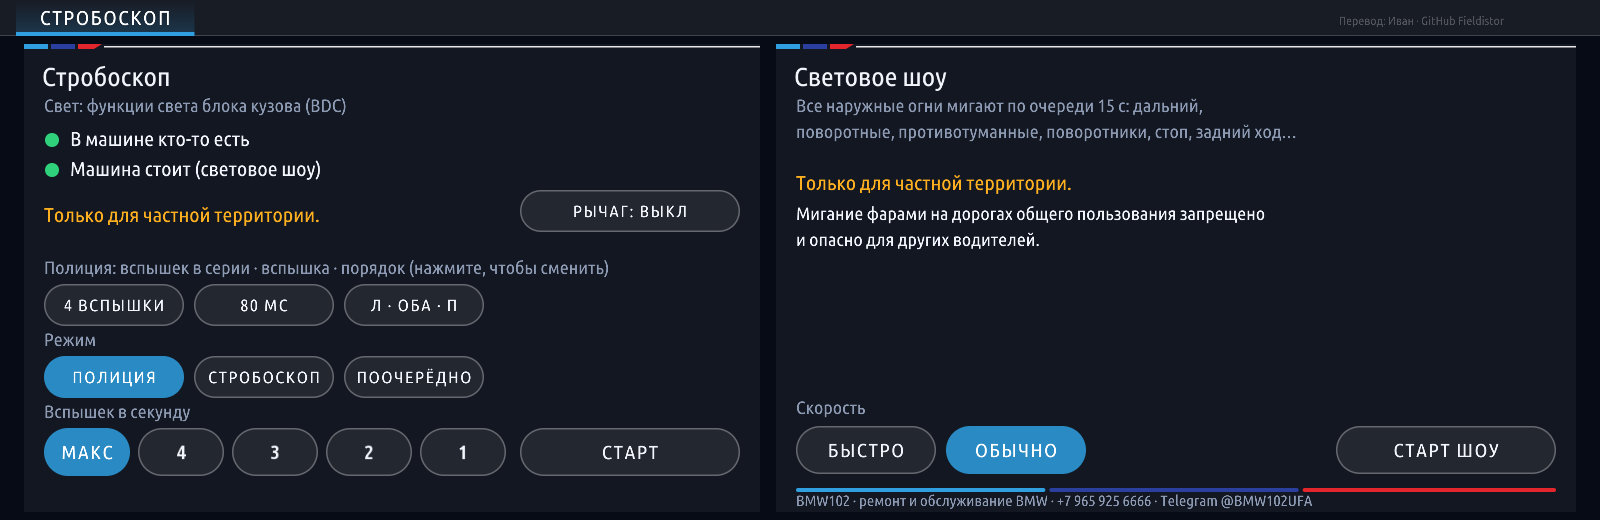
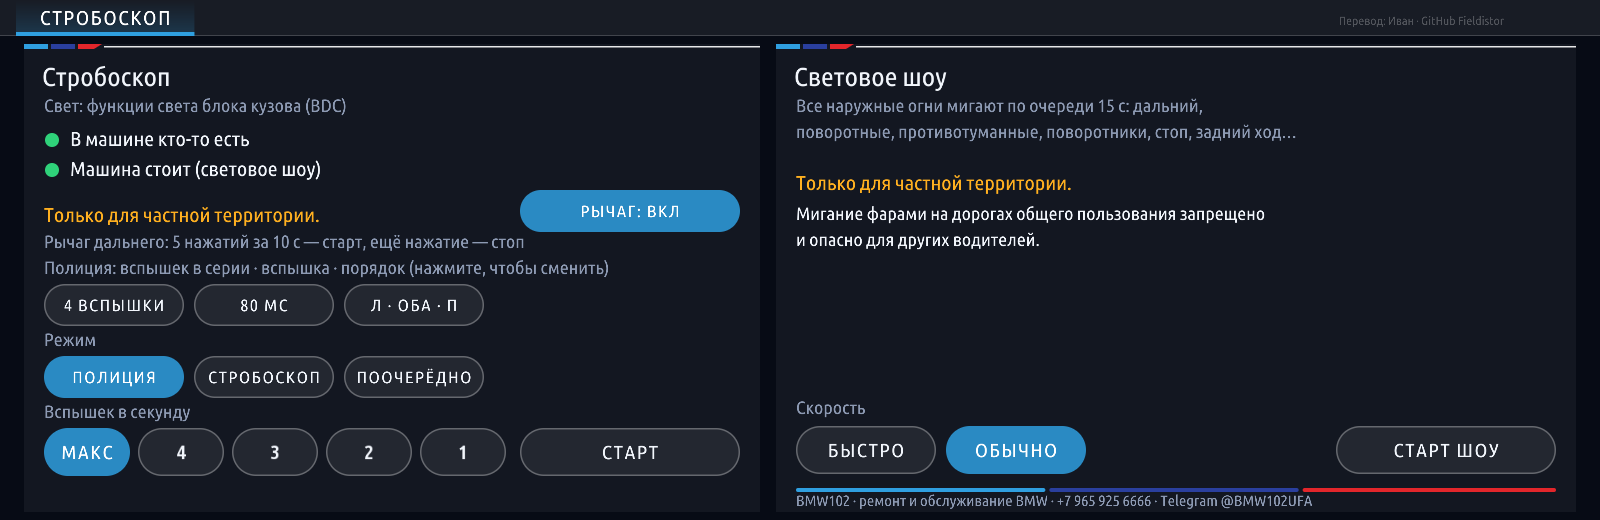
Рычаг дальнего: 5 нажатий за 10 с — старт стробоскопа, следующее — стоп
bmw102_flash 0.3.0 и bmw102_strobe 0.2.0: общий lever.js (импульс ≤1,5 с, удержание
сбрасывает счёт, пауза 2 с после старта/стопа). Strobe получил кнопку «Рычаг»
и автостарт с МГУ, чтобы рычаг работал с закрытой плиткой.

Claude-Session: https://claude.ai/code/session_01NB4Cp9im5w7Su1bm5gUy2F

Changed region(s): [[0.0312, 0.3385, 0.4688, 0.4923]]

diff --git a/strobe/app/src/app.js b/strobe/app/src/app.js
@@ -11,6 +11,8 @@
  * перегреве фар (FLM01 ≥ 90 °C), фары возвращаются машине при остановке или падении приложения.
  * От BMW102 (для safety car на треке): стробоскоп работает и на ходу, но на LED-фарах на ходу — только дальний
  * (ближний не гаснет); световое шоу и обучение — только на стоянке (≤ 3 км/ч, src/speed.js). Запуск — двойным нажатием.
+ * Рычаг дальнего (src/lever.js, «Рычаг: Вкл»): 5 нажатий за 10 с — запуск с настройками страницы, следующее — стоп.
+ * Приложение стартует вместе с МГУ, чтобы рычаг работал и с закрытой плиткой.
  *
  * Одна страница:
  *   заголовок · статус · Старт/Стоп · Режим · Частота · Свет · Световое шоу · Обучить/Найти фары · результат.
@@ -24,6 +26,7 @@ const logging = require('oap-sdk/src/logging/logging');
 const { Tasu } = require('./tasu.js');
 const { Strobe } = require('./strobe.js');
 const { Speed, MAX_KMH } = require('./speed.js');
+const { Lever } = require('./lever.js');
 
 const logger = logging.getSDKLogger();
 
@@ -39,7 +42,7 @@ const CHANNELS_FILE = path.join(DATA_DIR, 'strobe-channels.json');
 const STATE_NAME = 'ST_OnlineApps_BMW102Strobe';
 const C = {
     title: 'stTitle', status: 'stStatus', start: 'stStart', pattern: 'stPattern', rate: 'stRate',
-    lights: 'stLights', show: 'stShow', learn: 'stLearn', result: 'stResult'
+    lights: 'stLights', show: 'stShow', learn: 'stLearn', lever: 'stLever', result: 'stResult'
 };
 
 const PATTERNS = [['police', 'Полиция'], ['both', 'Стробоскоп (вместе)'], ['alternate', 'Поочерёдно (лево/право)']];
@@ -109,13 +112,16 @@ class StrobeApp extends OnlineApp {
         this._opts = {
             pattern: PATTERNS.some((p) => p[0] === s.pattern) ? s.pattern : 'police',
             rate: RATES.some((r) => r[0] === s.rate) ? s.rate : 'normal',
-            lights: LIGHTS.some((l) => l[0] === s.lights) ? s.lights : 'all'
+            lights: LIGHTS.some((l) => l[0] === s.lights) ? s.lights : 'all',
+            lever: s.lever === true
         };
 
         this._tasu = new Tasu((m) => this._trace(m));
         this._tasu.on('available', () => this._render());
         this._speed = new Speed((m) => this._trace(m));
         this._speed.on('change', () => this._render());
+        this._lever = new Lever();
+        this._speed.on('beam', (on, t) => this._onBeam(on, t));
         this._strobe = new Strobe({
             diag: this._tasu,
             log: { info: (m) => this._trace(m), warn: (m) => this._trace(m, 'warn') },
@@ -178,6 +184,7 @@ class StrobeApp extends OnlineApp {
     _appInitialized() {
         this._trace(`v${this._version()} starting, reason ${this.startReason}`);
         this._speed.start();
+        if (this._opts.lever) this._speed.watchBeam();
         this._linkTasu().then(() => this._find()).catch(() => {});
         if (!this.rhmiApplication) {
             this._trace('no RhmiApplication for this start reason; initializing without a screen');
@@ -230,6 +237,7 @@ class StrobeApp extends OnlineApp {
         this._bind(C.lights, () => this._doLights());
         this._bind(C.show, () => this._doShow());
         this._bind(C.learn, () => this._doLearn());
+        this._bind(C.lever, () => this._doLever());
         rhmi.on('userEvent', (ev) => {
             const entry = ev && ev.eventType === 'ACTION' && this._actionById[Number(ev.sourceId)];
             if (entry) {
@@ -477,6 +485,33 @@ class StrobeApp extends OnlineApp {
         s.learn().catch((e) => this._trace(`learn: ${e && e.stack || e}`, 'warn')).then(() => this._render());
     }
 
+    /* Рычаг дальнего: 5 нажатий за 10 с — старт с настройками страницы, следующее нажатие — стоп. */
+    _onBeam(on, t) {
+        const got = this._lever.beam(on, t);
+        if (!got || this._shutdownPromise) return;
+        const s = this._strobe;
+        if (s.running === 'strobe') {
+            this._lever.cool(t);
+            this._trace('strobe: stopped with the flasher lever');
+            s.stop();
+            return;
+        }
+        if (got !== 'start' || !this._opts.lever || !s.kind || s.running || this._allowed('strobe')) return;
+        this._lever.cool(t);
+        this._trace('strobe: started with the flasher lever (5 pulls in 10 s)');
+        const o = { pattern: this._opts.pattern, rate: this._opts.rate, lights: this._opts.lights };
+        this._runLights = o.lights;
+        s.start(o).catch((e) => this._trace(`strobe: ${e && e.stack || e}`, 'warn')).then(() => this._render());
+    }
+
+    _doLever() {
+        this._opts.lever = !this._opts.lever;
+        if (this._opts.lever) this._speed.watchBeam();
+        this._note = { ok: null, message: this._opts.lever ? 'Рычаг дальнего: 5 нажатий за 10 с — старт, ещё нажатие — стоп' : 'Запуск рычагом выключен' };
+        this._saveOpts();
+        this._render();
+    }
+
     _cycle(key, list, ok) {
         if (this._strobe.running) {
             this._note = { ok: null, message: 'Сначала остановите — настройки меняются между запусками' };
@@ -527,6 +562,7 @@ class StrobeApp extends OnlineApp {
         this._write(C.lights, 'Свет: ' + label(LIGHTS, this._opts.lights));
         this._write(C.show, s.running === 'show' ? STR.stop : STR.show);
         this._write(C.learn, s.running === 'learn' ? STR.learnStop : s.head ? STR.learn : STR.refind);
+        this._write(C.lever, 'Рычаг (5 нажатий за 10 с): ' + (this._opts.lever ? 'Вкл' : 'Выкл'));
         const n = this._note;
         const mark = n ? (n.ok === true ? '✓  ' : n.ok === false ? '✗  ' : '·  ') : '';
         this._write(C.result, n ? mark + n.message : STR.hint);

diff --git a/flash/apps/bmw102_flash/main.js b/flash/apps/bmw102_flash/main.js
@@ -2,7 +2,7 @@
 /**
  * BMW102 · Flash — стробоскоп дальним светом и световое шоу. Экран и логика — страница Strobe приложения
  * Ambient config (cauliflowermossgrape/idrive7-apps 2.7.3, MIT), как есть: те же панели, кнопки, проверки и
- * запуск рычагом дальнего; тексты на русском, тема BMW102 (тёмно-синий фон, полосы голубой · синий · красный).
+ * запуск рычагом дальнего (5 нажатий за 10 с — старт, следующее нажатие — стоп); тексты на русском, тема BMW102 (тёмно-синий фон, полосы голубой · синий · красный).
  *
  * Слева — Стробоскоп: найденные фары, проверки (в машине кто-то есть; шоу — только стоя), запуск рычагом,
  * свет / полиция (серия, длина вспышки, порядок) / обучение дальнего, режим, вспышек в секунду или скорость,
@@ -93,8 +93,8 @@ async function background(bg) {
     const find = () => strobe.find().then((k) => { if (!k) again(); }, (e) => { log.warn('strobe: ' + e); again(); });
     find();
 
-    // рычаг дальнего (lever.js): короткий рывок на стоянке (на ходу — с настройкой strobeLeverDriving) запускает
-    // стробоскоп с настройками страницы, пока включён «Запуск рычагом»; ещё рывок во время мигания — останавливает
+    // рычаг дальнего (lever.js): 5 нажатий за 10 с на стоянке (на ходу — с настройкой strobeLeverDriving) запускают
+    // стробоскоп с настройками страницы, пока включён «Запуск рычагом»; следующее нажатие во время мигания — останавливает
     const lever = new Lever();
     let leverWatch = null;
     const watchLever = () => {
@@ -102,17 +102,19 @@ async function background(bg) {
         leverWatch = Promise.resolve(signals.watch('de.bmw.infotainment.vehicle.Vehicle2', '1', {
             statusLightStatus: (v) => {
                 const t = Date.now();
-                if (!lever.beam(beamOf(v && v.statusMainBeam_headlightFlasher), t)) return;
+                const got = lever.beam(beamOf(v && v.statusMainBeam_headlightFlasher), t);
+                if (!got) return;
                 if (strobe.running === 'strobe') {
                     lever.cool(t);
                     log.info('strobe: stopped with the flasher lever');
                     strobe.stop();
                     return;
                 }
+                if (got !== 'start') return;
                 const parkedOk = parked.moving() === false || settings.get('strobeLeverDriving') === true;
                 if (settings.get('strobeLever') !== true || !strobe.kind || strobe.running || gate('strobe') !== null || !parkedOk) return;
                 lever.cool(t);
-                log.info('strobe: started with the flasher lever');
+                log.info('strobe: started with the flasher lever (5 pulls in 10 s)');
                 strobe.start(strobeOptions(settings, strobe)).catch((e) => log.warn('strobe: ' + e));
             },
         }, log, { pollMs: 500 })).catch((e) => { leverWatch = null; log.warn('flasher lever: ' + (e && e.message || e)); });
@@ -147,11 +149,12 @@ mgu.run({
                 cv.text(label + (!ok && why ? ' · ' + why : ''), 70, y, 20, ok ? t.text : t.dim);
             });
             cv.text('Только для частной территории.', 44, 222, 20, t.warn, { font: 'bold' });
-            // короткий рывок рычага дальнего на стоянке запускает (lever.js), только пока это включено
+            // 5 нажатий рычага дальнего за 10 с запускают (lever.js), следующее — останавливает; только пока это включено
             const lever = settings.get('strobeLever') === true;
             G.button(cv, t, 520, 190, 220, 42, lever ? 'Рычаг: Вкл' : 'Рычаг: Выкл', () => { settings.set('strobeLever', !lever); return redraw(); },
                 { primary: lever, key: 'strobe-lever', busy: !strobe });
             if (strobe && strobe.note) cv.text(strobe.note, 44, 248, 18, strobe.noteType === 'warn' ? t.warn : t.dim);
+            else if (lever) cv.text('Рычаг дальнего: 5 нажатий за 10 с — старт, ещё нажатие — стоп', 44, 248, 18, t.dim);
             const pat = ['both', 'alternate', 'police'].indexOf(settings.get('strobePattern')) >= 0 ? settings.get('strobePattern') : 'police';
             const rate = settings.get('strobeRate') || 'normal';
             // блоки фар мигают всем передним светом; блок кузова — только дальним

diff --git a/flash/apps/bmw102_flash/lever.js b/flash/apps/bmw102_flash/lever.js
@@ -1,40 +1,39 @@
 'use strict';
 /**
- * lever.js - Ambient config: a short pull of the headlight-flasher lever while parked (while driving too with the
- * setting strobeLeverDriving, for private property) starts the strobe (Strobe page's
- * Lever start, off until switched on); another pull while it flashes stops it.
+ * lever.js — BMW102: рычаг дальнего. 5 коротких нажатий (моргнуть дальним) за 10 с — запуск стробоскопа;
+ * пока он мигает, следующее нажатие — остановка. По мотивам lever.js из Ambient config (idrive7-apps, MIT).
  *
- * The car's Vehicle2.statusMainBeam_headlightFlasher is on while the high beam is on or the lever is pulled, so only a
- * short pulse counts: the beam off for at least ARM_MS, then on for at most PULSE_MS, then off again. Held longer it is
- * the high beam, not a pull. After a start nothing counts for COOL_MS.
+ * Vehicle2.statusMainBeam_headlightFlasher включён, пока горит дальний или рычаг притянут, поэтому нажатием
+ * считается только короткий импульс: включён не дольше PULSE_MS, затем выключен. Дольше — это включили дальний:
+ * счёт нажатий сбрасывается. После запуска или остановки COOL_MS ничего не считается (хвост последнего нажатия).
  *
- *   const lv = new Lever(); lv.beam(on, t) -> true once for each pull (t: ms); lv.cool(t)
+ *   const lv = new Lever(); lv.beam(on, t) -> null | 'pull' (нажатие) | 'start' (пятое нажатие за 10 с); lv.cool(t)
  */
-const ARM_MS = 1000, PULSE_MS = 1500, COOL_MS = 2000;
+const PULSE_MS = 1500, COOL_MS = 2000, COUNT = 5, WINDOW_MS = 10000;
 
-/* The signal's value: true on, false off, null not known (names or wire numbers). */
+/* Значение сигнала: true вкл, false выкл, null неизвестно (имена или числа). */
 const beamOf = (v) => (v === 'EIN' || v === 1 ? true : v === 'AUS' || v === 0 ? false : null);
 
 class Lever {
-    constructor() { this.offAt = null; this.onAt = null; this.coolUntil = 0; }
+    constructor() { this.onAt = null; this.coolUntil = 0; this.pulls = []; }
 
     beam(on, t) {
-        if (on === null) { this.offAt = null; this.onAt = null; return false; }
-        if (!on) {
-            const pulse = this.onAt !== null ? t - this.onAt : null, armed = this.armed;
-            this.onAt = null; this.armed = false;
-            if (this.offAt === null) this.offAt = t;
-            return pulse !== null && armed && pulse <= PULSE_MS && t >= this.coolUntil;
+        if (on === null) { this.onAt = null; this.pulls = []; return null; }
+        if (on) {
+            if (this.onAt === null) this.onAt = t;
+            return null;
         }
-        if (this.onAt === null) {
-            this.onAt = t;
-            this.armed = this.offAt !== null && t - this.offAt >= ARM_MS;
-            this.offAt = null;
-        }
-        return false;
+        const held = this.onAt !== null ? t - this.onAt : null;
+        this.onAt = null;
+        if (held === null) return null;
+        if (held > PULSE_MS) { this.pulls = []; return null; }      // включали дальний, а не моргали
+        if (t < this.coolUntil) return null;
+        this.pulls = this.pulls.filter((p) => t - p <= WINDOW_MS).concat([t]);
+        if (this.pulls.length >= COUNT) { this.pulls = []; return 'start'; }
+        return 'pull';
     }
 
-    cool(t) { this.coolUntil = t + COOL_MS; }
+    cool(t) { this.coolUntil = t + COOL_MS; this.pulls = []; }
 }
 
-module.exports = { Lever, beamOf, ARM_MS, PULSE_MS, COOL_MS };
+module.exports = { Lever, beamOf, PULSE_MS, COOL_MS, COUNT, WINDOW_MS };

diff --git a/strobe/app/src/speed.js b/strobe/app/src/speed.js
@@ -7,6 +7,9 @@
  * скорость, которая не меняется. Тишина после стоянки — стоим; тишина после езды — едем (безопасная сторона),
  * пока снова не придёт скорость. Без скорости вовсе (стенд) машина считается стоящей, а экран это показывает.
  *
+ * Рычаг дальнего: Vehicle2.statusLightStatus.statusMainBeam_headlightFlasher, по подписке и каждые 0,5 с
+ * (после watchBeam()); событие 'beam' (true | false | null, t).
+ *
  *   const sp = new Speed(log); sp.start();   sp.moving() -> true | false   sp.kmh() -> число | null   sp.error
  * Нужен в manifest.json: "de.bmw.infotainment.vehicle.Vehicle2": { instances ["1"], attributes { statusCarSpeed2 "rs" } }.
  */
@@ -17,6 +20,9 @@ const IFACE = 'de.bmw.infotainment.vehicle.Vehicle2';
 const FIELD = 'statusCarSpeed2';
 const MAX_KMH = 3;
 const POLL_MS = 2000;
+const BEAM = 'statusLightStatus';
+const BEAM_POLL_MS = 500;
+const beamOf = (v) => (v === 'EIN' || v === 1 ? true : v === 'AUS' || v === 0 ? false : null);
 
 class Speed extends EventEmitter {
     constructor(log) {
@@ -72,10 +78,29 @@ class Speed extends EventEmitter {
         return this._starting;
     }
 
-    stop() { clearInterval(this._timer); this._timer = null; }
+    /* Рычаг дальнего: подписка и опрос (после start()). */
+    watchBeam() {
+        if (this._beamOn) return;
+        this._beamOn = true;
+        const take = (v) => this.emit('beam', beamOf(v && v.statusMainBeam_headlightFlasher), Date.now());
+        const go = () => {
+            if (!this.p) return;
+            nativeTick(() => this.p.subscribe({ name: BEAM, onReceive: (v) => { try { take(v); } catch (e) { /* кадр без рычага */ } } }))
+                .catch((e) => this.log('рычаг: ' + (e && e.message || e)));
+            this._beamTimer = setInterval(() => {
+                if (this.p && this.available && typeof this.p.getValue === 'function') {
+                    nativeTick(() => this.p.getValue(BEAM, 3000)).then(take).catch(() => {});
+                }
+            }, BEAM_POLL_MS);
+            this.log('рычаг: подписка есть');
+        };
+        Promise.resolve(this._starting || this.start()).then(go);
+    }
+
+    stop() { clearInterval(this._timer); this._timer = null; clearInterval(this._beamTimer); this._beamTimer = null; }
 
     moving() { return this.speed !== null && this.speed > MAX_KMH; }
     kmh() { return this.speed === null ? null : Math.round(this.speed); }
 }
 
-module.exports = { Speed, MAX_KMH };
+module.exports = { Speed, MAX_KMH, beamOf };

diff --git a/strobe/app/src/lever.js b/strobe/app/src/lever.js
@@ -1,0 +1,39 @@
+'use strict';
+/**
+ * lever.js — BMW102 (общий с BMW102 · Flash): рычаг дальнего. 5 коротких нажатий (моргнуть дальним) за 10 с — запуск стробоскопа;
+ * пока он мигает, следующее нажатие — остановка. По мотивам lever.js из Ambient config (idrive7-apps, MIT).
+ *
+ * Vehicle2.statusMainBeam_headlightFlasher включён, пока горит дальний или рычаг притянут, поэтому нажатием
+ * считается только короткий импульс: включён не дольше PULSE_MS, затем выключен. Дольше — это включили дальний:
+ * счёт нажатий сбрасывается. После запуска или остановки COOL_MS ничего не считается (хвост последнего нажатия).
+ *
+ *   const lv = new Lever(); lv.beam(on, t) -> null | 'pull' (нажатие) | 'start' (пятое нажатие за 10 с); lv.cool(t)
+ */
+const PULSE_MS = 1500, COOL_MS = 2000, COUNT = 5, WINDOW_MS = 10000;
+
+/* Значение сигнала: true вкл, false выкл, null неизвестно (имена или числа). */
+const beamOf = (v) => (v === 'EIN' || v === 1 ? true : v === 'AUS' || v === 0 ? false : null);
+
+class Lever {
+    constructor() { this.onAt = null; this.coolUntil = 0; this.pulls = []; }
+
+    beam(on, t) {
+        if (on === null) { this.onAt = null; this.pulls = []; return null; }
+        if (on) {
+            if (this.onAt === null) this.onAt = t;
+            return null;
+        }
+        const held = this.onAt !== null ? t - this.onAt : null;
+        this.onAt = null;
+        if (held === null) return null;
+        if (held > PULSE_MS) { this.pulls = []; return null; }      // включали дальний, а не моргали
+        if (t < this.coolUntil) return null;
+        this.pulls = this.pulls.filter((p) => t - p <= WINDOW_MS).concat([t]);
+        if (this.pulls.length >= COUNT) { this.pulls = []; return 'start'; }
+        return 'pull';
+    }
+
+    cool(t) { this.coolUntil = t + COOL_MS; this.pulls = []; }
+}
+
+module.exports = { Lever, beamOf, PULSE_MS, COOL_MS, COUNT, WINDOW_MS };

diff --git a/strobe/README.md b/strobe/README.md
@@ -18,6 +18,7 @@
 │ ▸ Свет: все фонари / только дальний                        │
 │ ▸ ✦  Световое шоу (15 с)                                    │
 │ ▸ Обучить дальний свет  ·  Найти фары заново               │
+│ ▸ Рычаг (5 нажатий за 10 с): Вкл / Выкл                    │
 │ ✓  Стробоскоп работает · полиция                            │
 └───────────────────────────────────────────────────────────┘
 ```
@@ -37,6 +38,14 @@
 **Режим «Полиция»** — серии вспышек дальнего то слева, то справа: одна фара удерживается на своём
 обычном свете, пока мигает другая. Для фар FLE каналы дальнего сначала надо **обучить**: кнопка
 «Обучить дальний свет», затем включить дальний подрулевым рычагом (15 с).
+
+## Рычаг дальнего
+
+Кнопка **«Рычаг (5 нажатий за 10 с)»** — Вкл. Тогда **5 раз моргнуть дальним за 10 секунд** — стробоскоп
+запускается с настройками страницы (режим, частота, свет), **следующее нажатие** — останавливается. Работает и на
+ходу (safety car); на LED-фарах на ходу — только «Свет: только дальний». Нажатие — дальний включён не дольше 1,5 с;
+держать дольше — это просто дальний, счёт сбрасывается. Приложение стартует вместе с МГУ, так что рычаг работает,
+даже если плитку не открывали.
 
 ## Защита
 

diff --git a/flash/README.md b/flash/README.md
@@ -33,8 +33,10 @@
 
 - Стробоскоп работает и на ходу; световое шоу — только когда машина стоит (≤ 3 км/ч); всё — только пока
   в машине кто-то есть (VehicleCondition; закрыли и ушли — остановка).
-- **Рычаг:** с «Рычаг: Вкл» короткий рывок рычага дальнего (≥1 с выкл, ≤1,5 с вкл) запускает стробоскоп
-  с настройками страницы, ещё рывок — останавливает. На ходу — только с настройкой «Запуск рычагом и на ходу».
+- **Рычаг:** с «Рычаг: Вкл» **5 нажатий рычага дальнего (моргнуть дальним) за 10 с** запускают стробоскоп
+  с настройками страницы, **следующее нажатие — останавливает**. Нажатие — дальний включён не дольше 1,5 с;
+  если держать дольше (включили дальний), счёт сбрасывается. На ходу — только с настройкой «Запуск рычагом
+  и на ходу». (В прототипе запускал один рывок — у BMW102 пять, чтобы не включить случайно.)
   Приложение стартует вместе с МГУ, поэтому рычаг работает с закрытой плиткой.
 - Движок `strobe.js` (тот же, что у Strobe): ≤30 с за нажатие, отдых, ≤2 мин мигания за 10 мин, ток LED не выше
   кодировки, стоп при перегреве FLM01 ≥ 90 °C, фары возвращаются машине.

diff --git a/strobe/app/package/CHANGELOG.md b/strobe/app/package/CHANGELOG.md
@@ -1,4 +1,9 @@
-# BMW102 · Стробоскопы — изменения
+# BMW102 · Strobe — изменения
+
+## 0.2.0
+- Запуск рычагом дальнего: «Рычаг: Вкл», затем 5 нажатий (моргнуть дальним) за 10 с — старт с настройками
+  страницы, следующее нажатие — стоп. Держать дальний дольше 1,5 с — не нажатие, счёт сбрасывается.
+- Приложение стартует вместе с МГУ (autostart), чтобы рычаг работал и с закрытой плиткой.
 
 ## 0.1.1
 - Стробоскоп работает и на ходу — для safety car на треке.
